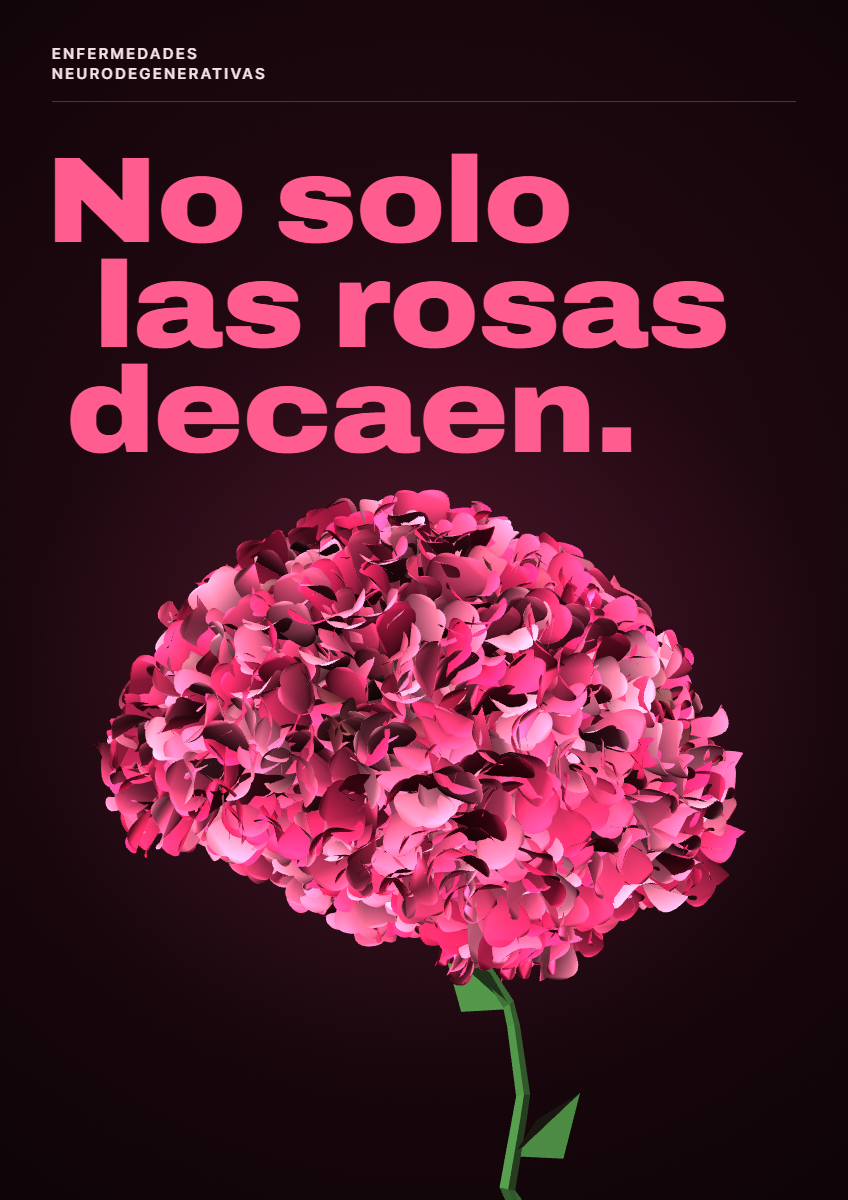
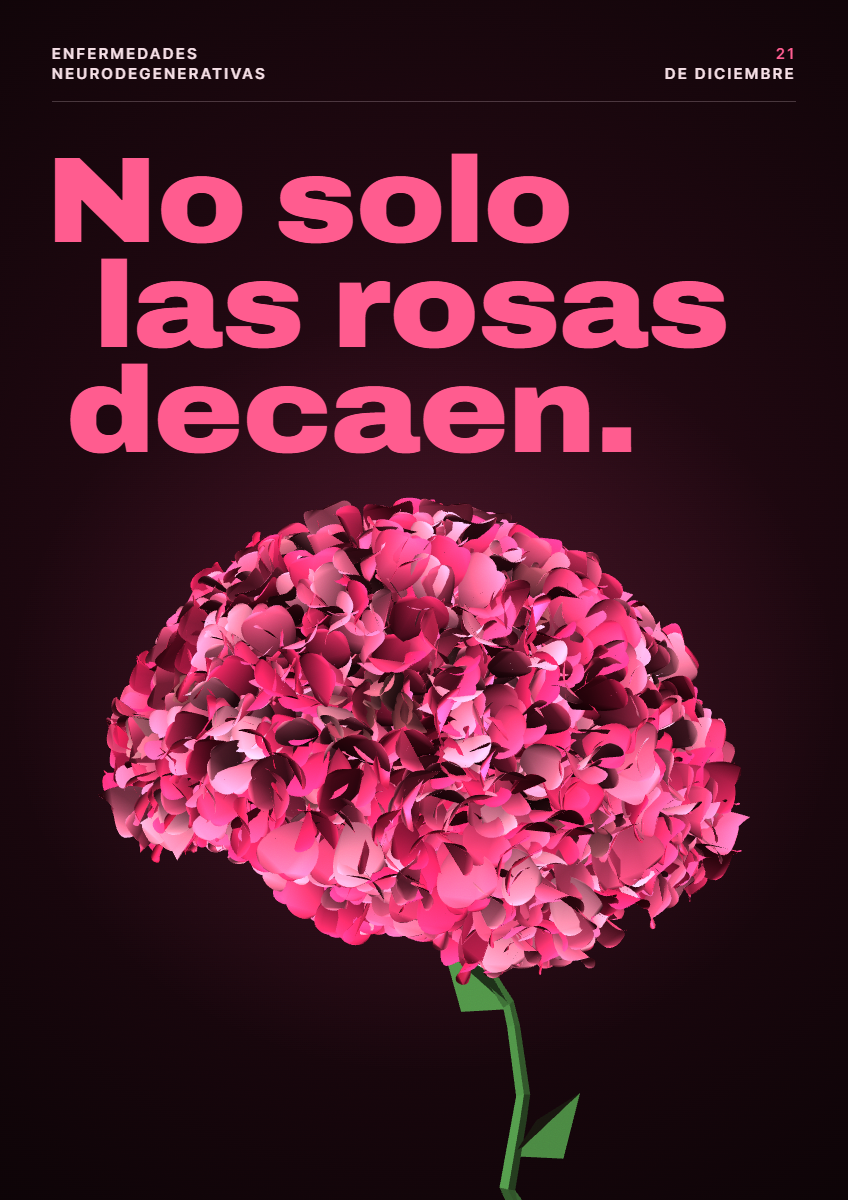
Añade la fecha "21 de diciembre" a la cabecera

Changed region(s): [[0.092, 0.4008, 0.8892, 0.8325], [0.8892, 0.0308, 0.9505, 0.0617]]

diff --git a/style.css b/style.css
@@ -113,18 +113,27 @@ body {
   left: 52px;
   right: 52px;
   display: flex;
-  justify-content: flex-start;
+  justify-content: space-between;
   align-items: flex-start;
   padding-bottom: 18px;
   border-bottom: 1px solid rgba(246, 223, 230, 0.22);
 }
 
-.topic {
+.topic,
+.date {
   font-size: 15px;
   font-weight: 600;
   line-height: 1.3;
   letter-spacing: 0.18em;
   text-transform: uppercase;
+}
+
+.date {
+  text-align: right;
+}
+
+.date__day {
+  color: var(--rose);
 }
 
 /* ---------- Titular ---------- */

diff --git a/index.html b/index.html
@@ -27,10 +27,11 @@
         <canvas id="brainCanvas"></canvas>
       </div>
 
-      <!-- Capa 2: cabecera (tema) -->
+      <!-- Capa 2: cabecera (tema y fecha) -->
       <div class="layer layer--meta" id="metaLayer">
         <header class="meta-top">
           <p class="topic">Enfermedades<br>neurodegenerativas</p>
+          <p class="date"><span class="date__day">21</span><br>de diciembre</p>
         </header>
       </div>
 
